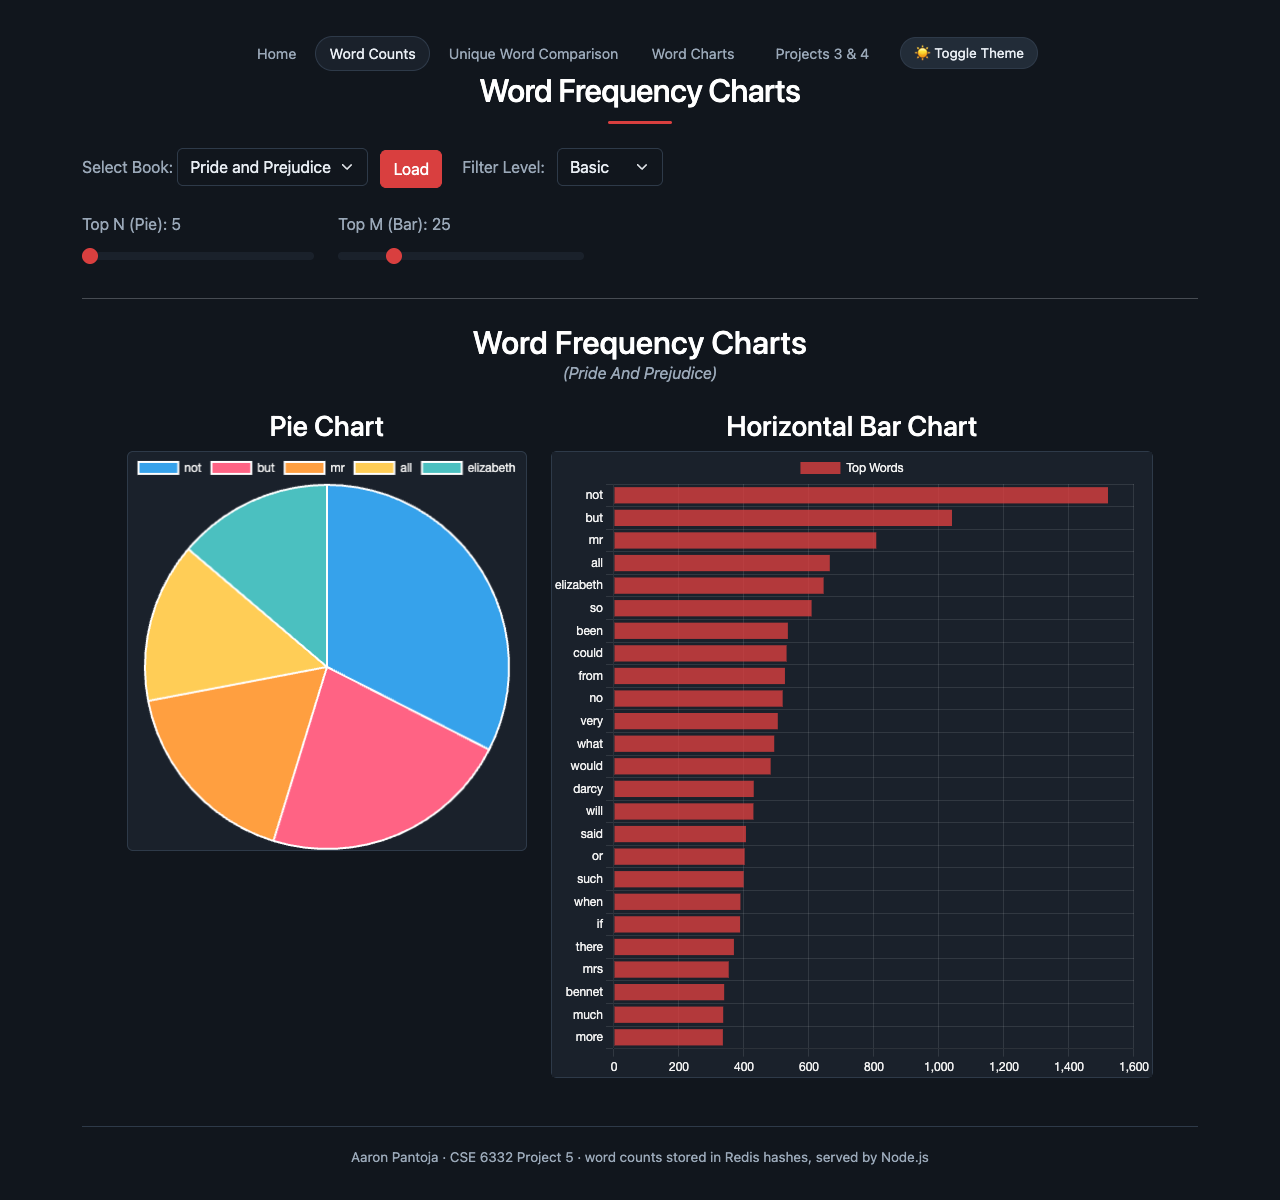
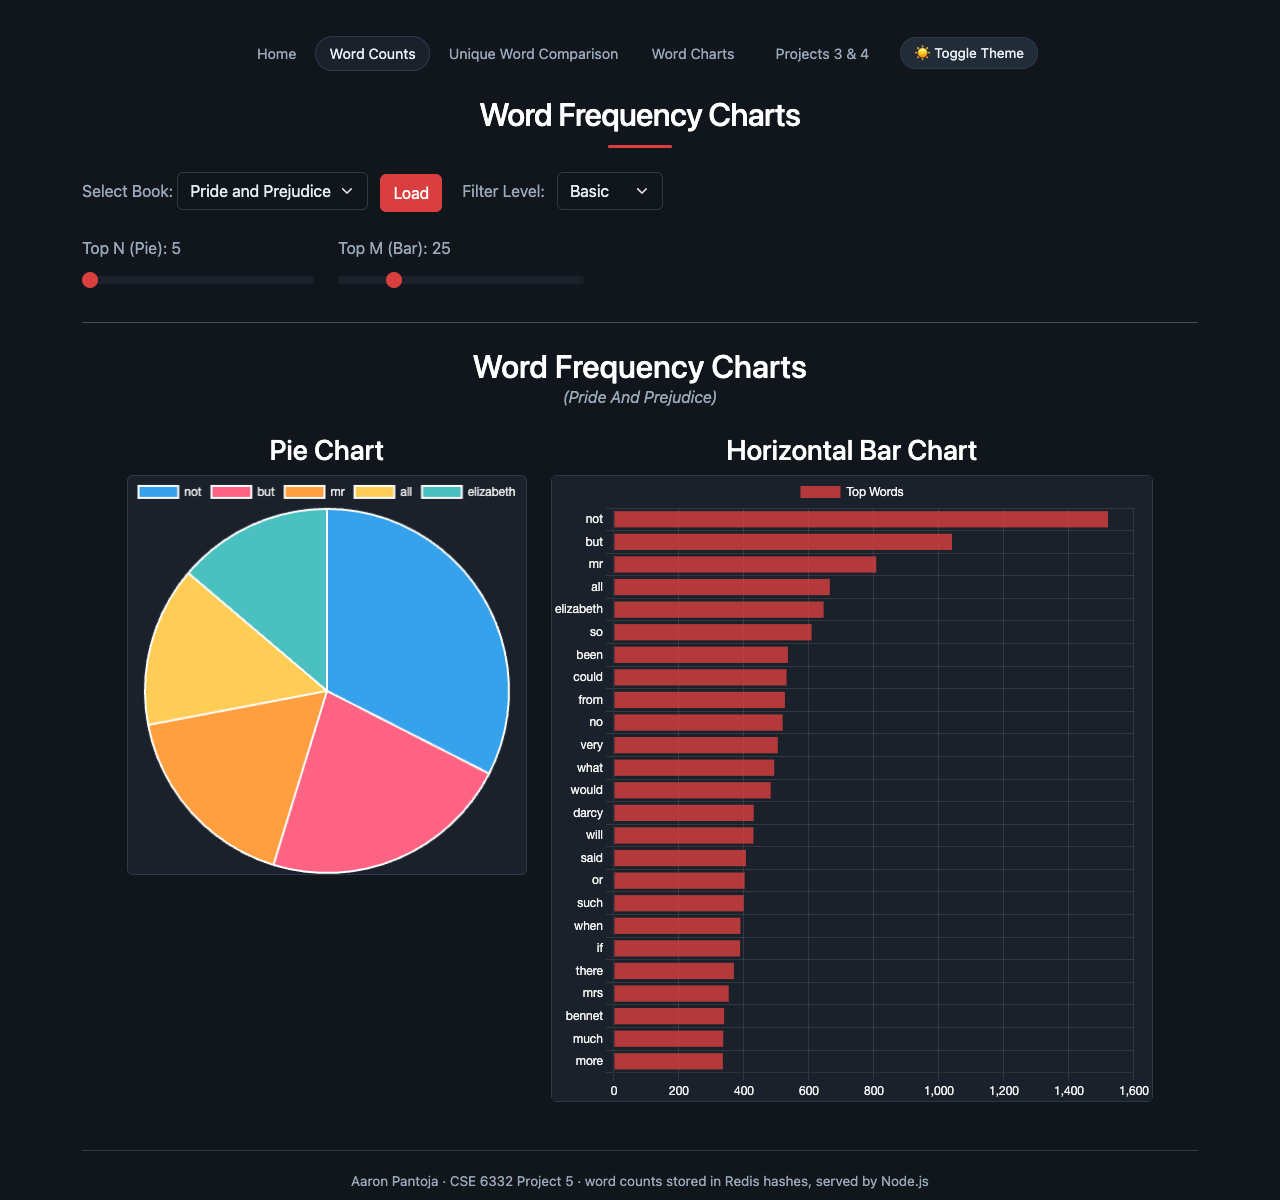
Strip accents before counting so names such as Natasha are not split into fragments
Generated with [Devin](https://devin.ai)

diff --git a/word-count-app/server.js b/word-count-app/server.js
@@ -70,7 +70,8 @@ async function countWordsFromFile(filePath) {
   });
 
   for await (const line of rl) {
-    const words = line.toLowerCase().match(/\b[a-z']+\b/g);
+    // Strip accents first, so "Natásha" counts as "natasha" rather than as "nat" and "sha".
+    const words = line.toLowerCase().normalize('NFD').replace(/[\u0300-\u036f]/g, '').match(/\b[a-z']+\b/g);
     if (words) {
       for (const word of words) {
         if (
